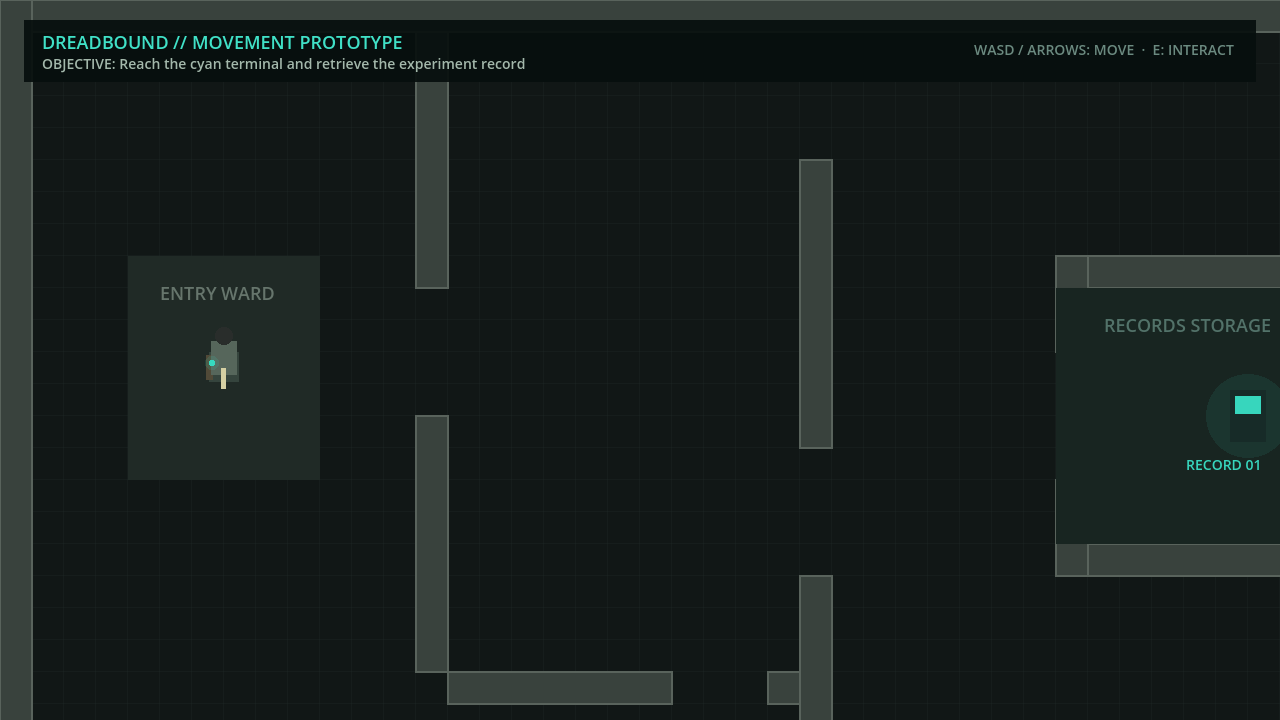
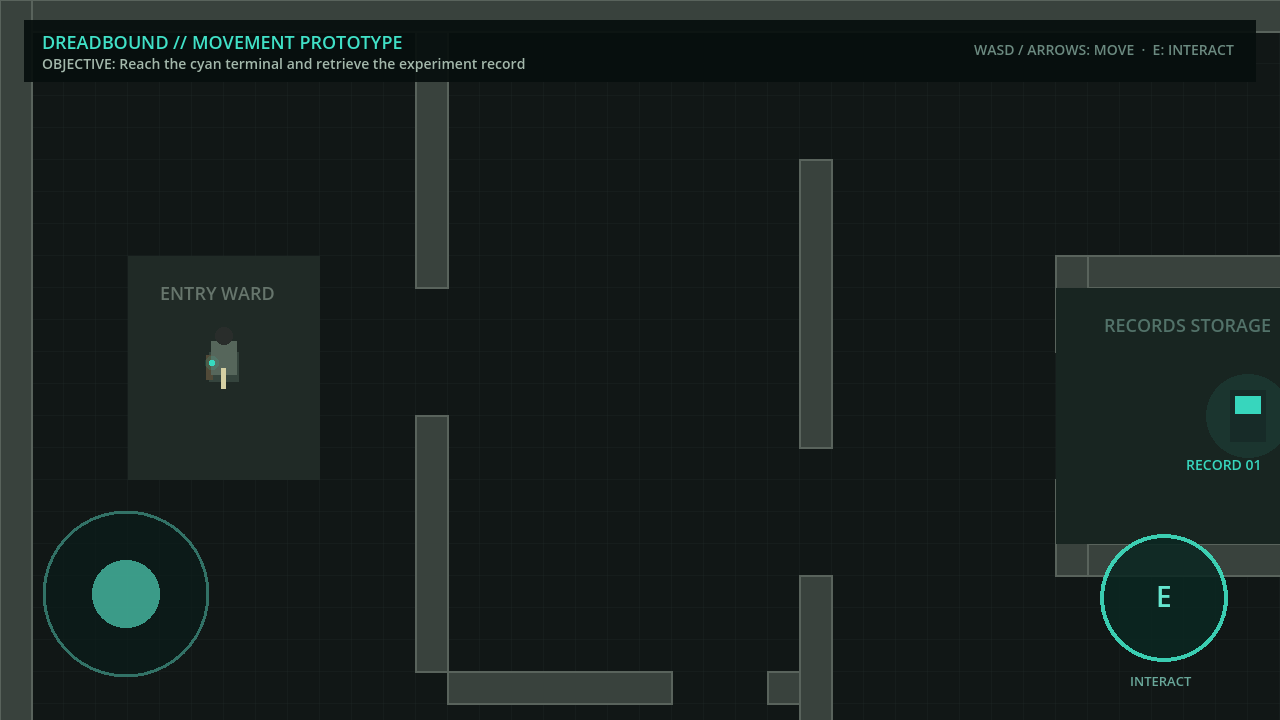
Add mobile Web controls and deployment

diff --git a/README.md b/README.md
@@ -18,7 +18,7 @@
 
 ## 运行目标
 
-安装 Godot 4 后，在 Project Manager 中导入 `project.godot` 并按 **F5**，或运行 `godot --path .`（部分系统命令名为 `godot4`）。使用 WASD 或方向键移动，靠近青色终端后按 E 交互。
+安装 Godot 4 后，在 Project Manager 中导入 `project.godot` 并按 **F5**，或运行 `godot --path .`（部分系统命令名为 `godot4`）。电脑使用 WASD/方向键移动、E 交互；手机和平板使用左侧虚拟摇杆移动、右侧按钮交互。建议横屏游玩。
 
 首个可玩目标是一局 10～15 分钟的废弃疗养院垂直切片：寻找三份实验记录、恢复地下室电力，并在怪物追击下撤离。
 
@@ -33,3 +33,14 @@
 5. **表现与平衡**：统一像素素材、灯光和音效、终端风格 UI、永久强化及 Web 性能优化。
 
 详见 [`docs/game-vision.md`](docs/game-vision.md)、[`docs/art-style.md`](docs/art-style.md) 和 [`docs/first-vertical-slice.md`](docs/first-vertical-slice.md)。第一阶段不开发多人、3D、复杂队友 AI、程序化地图或大量装备。
+
+## Web 版本
+
+项目包含 Web 导出预设。安装与当前 Godot 版本匹配的 Export Templates 后，可以运行：
+
+```bash
+godot --headless --path . --export-release Web builds/web/index.html
+python3 -m http.server 8000 --directory builds/web
+```
+
+然后访问 `http://localhost:8000`。`.github/workflows/deploy-web.yml` 会在 `main` 分支更新时构建并部署 GitHub Pages；首次使用需要在仓库 **Settings → Pages → Source** 中选择 **GitHub Actions**。
